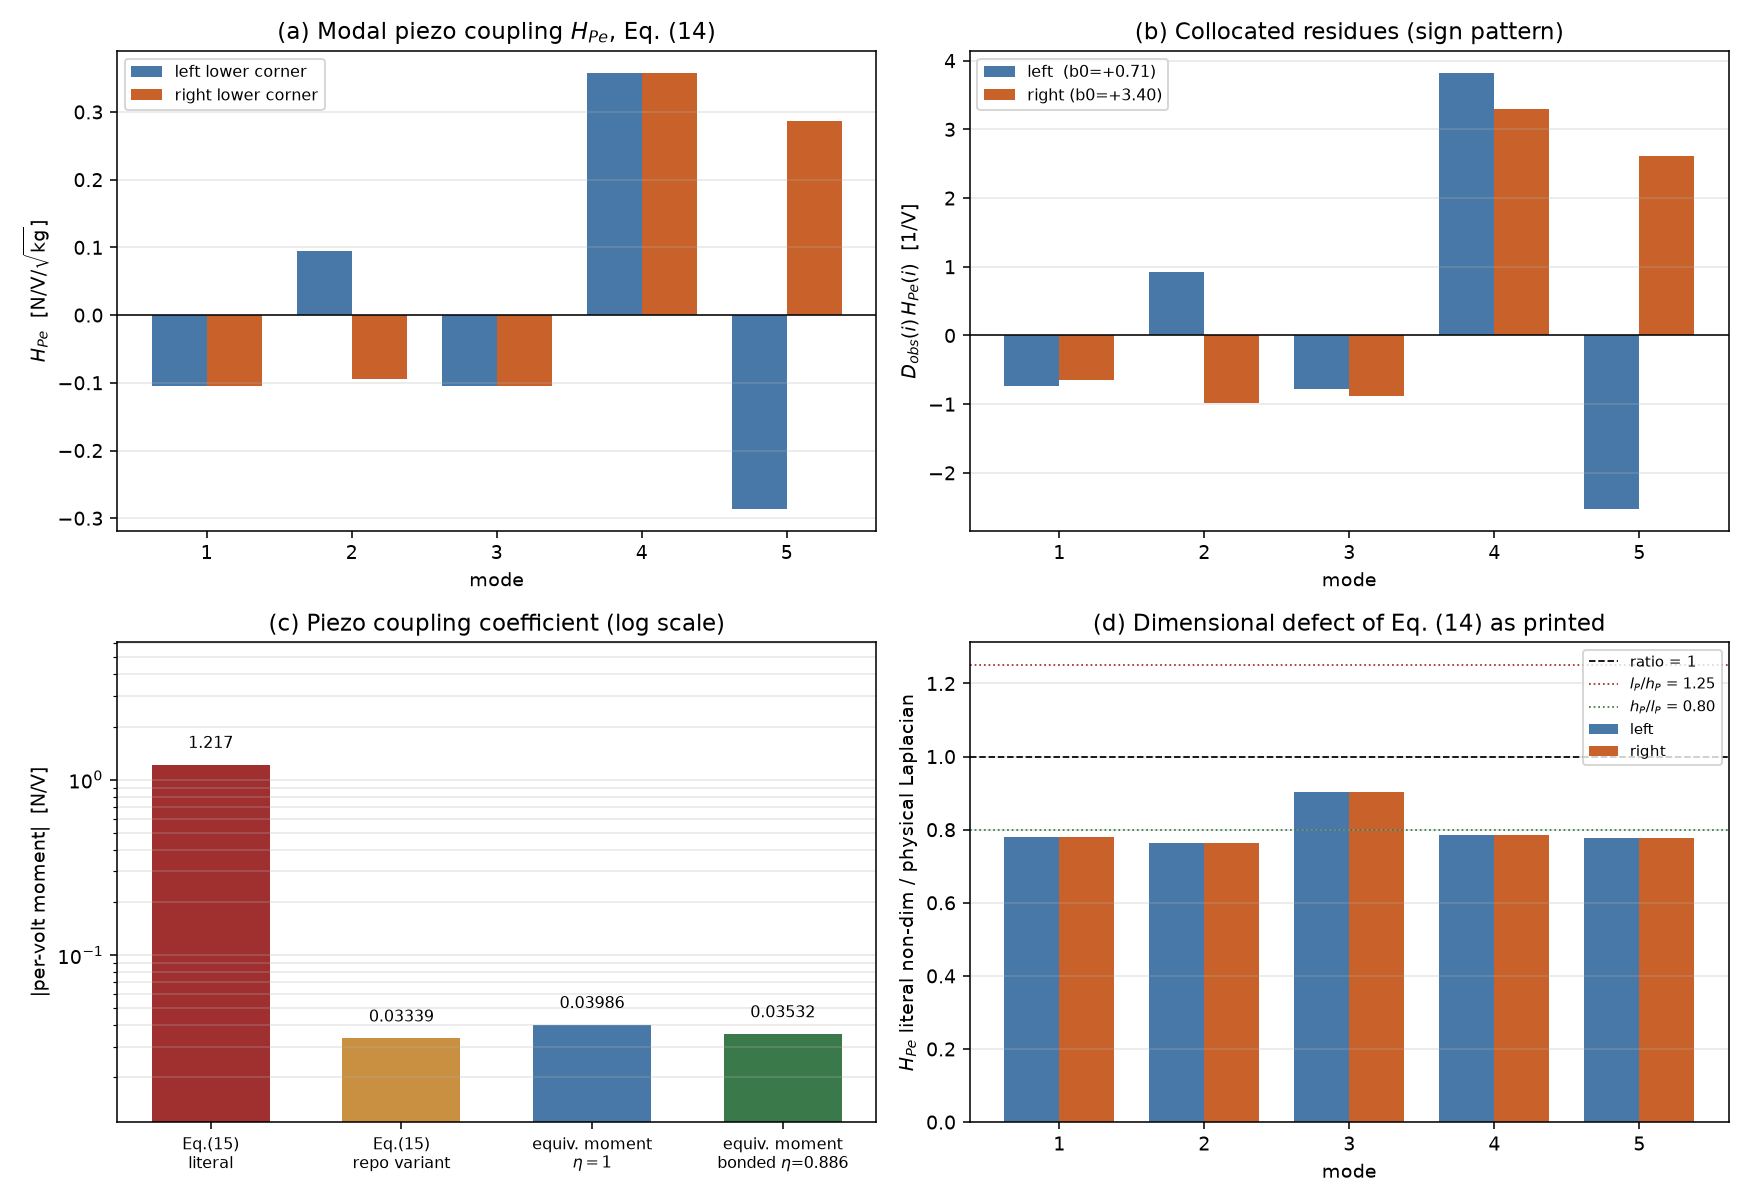
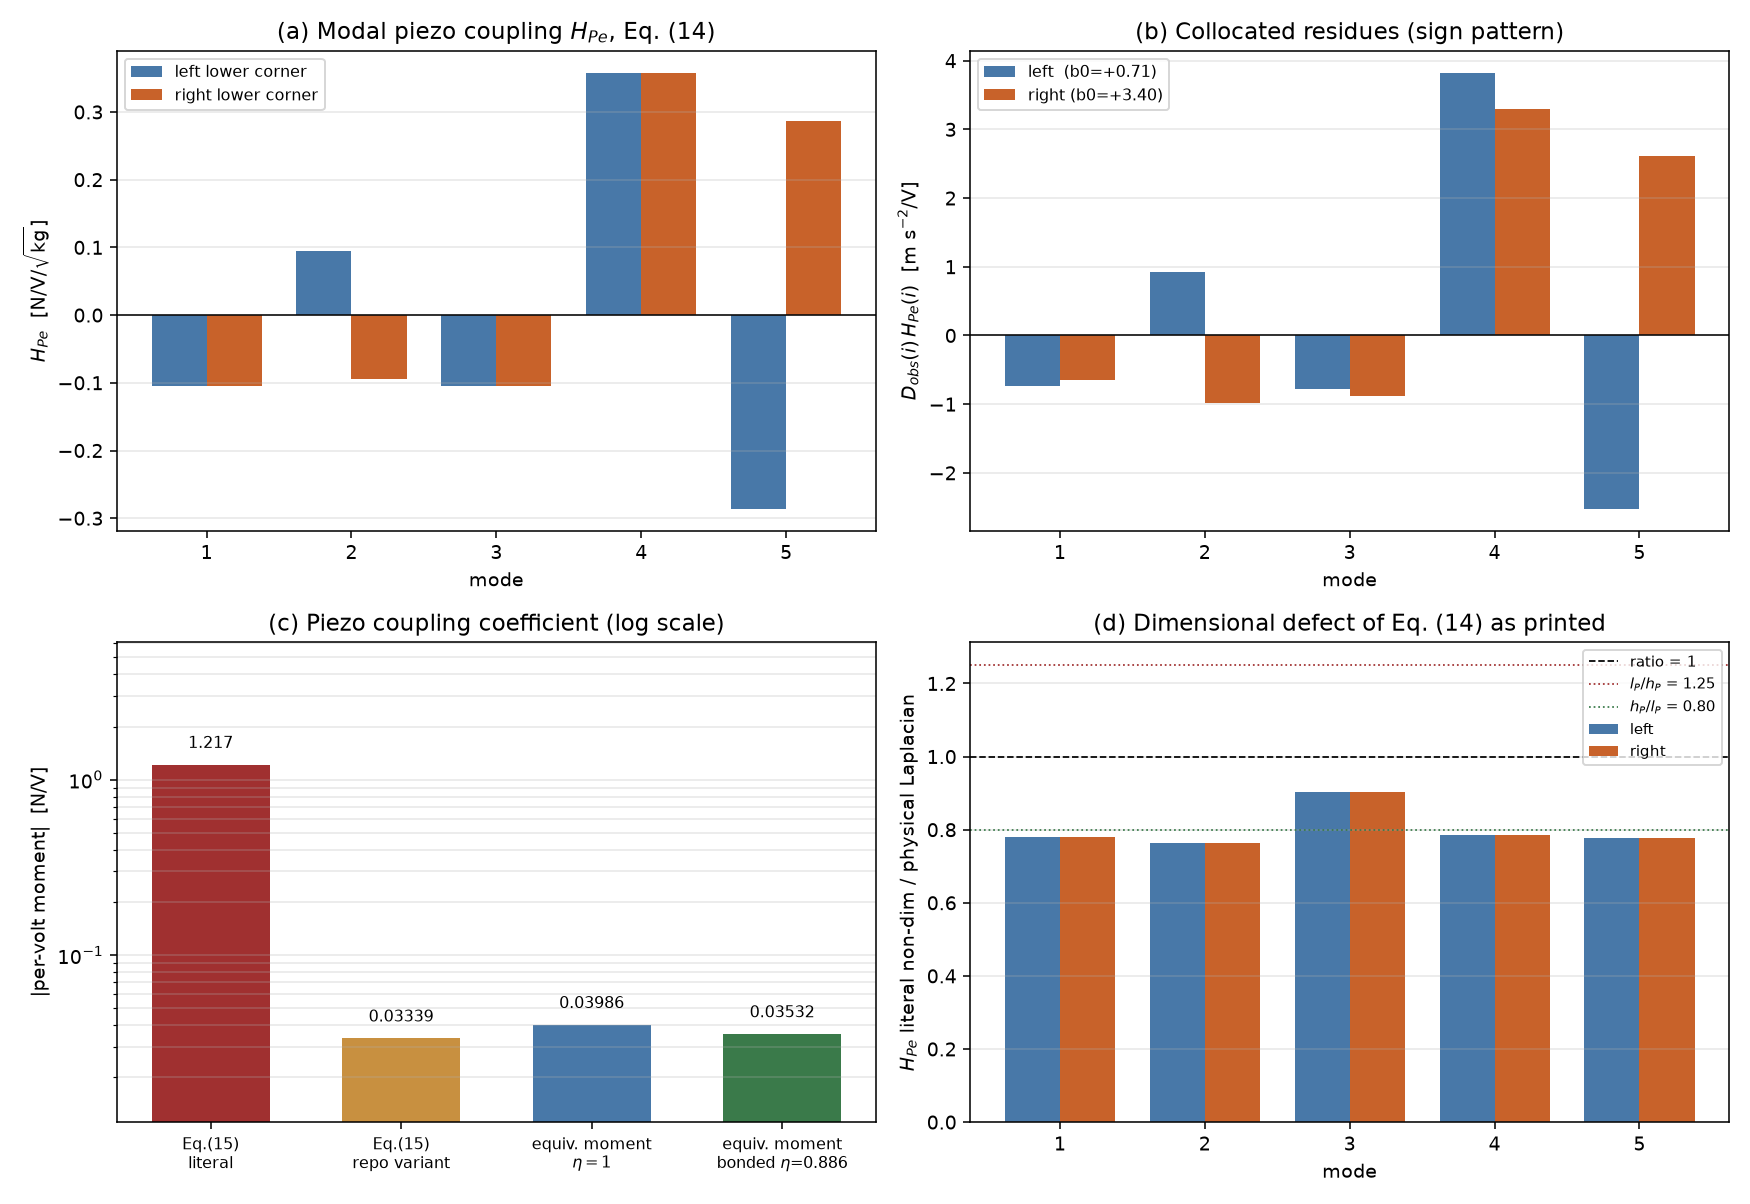
Fix five more protocol defects found by the adversarial audit
The audit of the control layer returned six defects; the constraint grid was
fixed in 0c1c298 and the other five land here. They do not all point the same
way, which is the reason none of them could be left standing.

The nominal-stability screen was structure-specific. Rejecting max Re > -1 s^-1
killed 58.3 % of the nominally stable ADRC-FOPID designs against 1.0-1.7 % of
the FOPID ones, because the ESO state z3 is a true integrator at s = 0 whose
closed-loop image sits between -0.2 and -0.5 s^-1, inside the rejected band,
while the FOPID's fractional integrator is band-limited at 2 pi rad/s by the
Oustaloup realisation and cannot go there. The penalty in that band was also
exactly -1000 everywhere, i.e. informationless. Only genuine instability
(max Re > 0) is rejected now, with a graded penalty. Biased toward FOPID.

Half the ADRC budget was dead. Its +1 sign half contains no nominally stable
design at all - 0 hits in 2500 samples and 0 in the 1800 evaluations it had been
spending - while both FOPID halves are productive. Equal evaluations were
therefore not equal useful evaluations. run_pso now screens one seed per sign
convention, then reallocates the remaining budget to the surviving half, the
same way for both structures: 2 screening runs plus 3 refinement runs each.
Biased toward FOPID.

The objective was not monotone in the quantity it claimed to maximise. Kendall
tau between J and the bisected a_p,lim was 0.809, with inversions across
[…]

diff --git a/control/objective.py b/control/objective.py
@@ -6,19 +6,15 @@ C'est ici que se joue l'equite de la comparaison : FOPID et ADRC-FOPID sont
 notes par le MEME code, avec les MEMES contraintes. Seule change la fonction
 qui fabrique le (A, B, C, D) a partir du vecteur de decision.
 
-OBJECTIF — maximiser les limites de stabilite du fraisage.
-Le critere exact serait la profondeur axiale limite a_p,lim obtenue par
-bissection sur le rayon spectral de Floquet ; c'est 12 a 15 evaluations par
-position, trop cher dans une boucle PSO. On maximise donc une mesure
-STRICTEMENT MONOTONE de la meme quantite : la marge logarithmique de Floquet
-
-    J = - moyenne_{a_p sondes} [ max_{x} log rho(a_p, x) ]
-
-rho <= 1 signifie stable ; J > 0 signifie donc "stable a toutes les
-profondeurs sondes et a toutes les positions", et J croit avec la marge. Les
-profondeurs sondes (0.5, 1.0, 2.0 mm) encadrent la zone utile, la limite en
-boucle ouverte etant ~0.15 mm. Les a_p,lim VRAIS sont ensuite calcules par
-bissection, a pleine resolution, pour les seuls correcteurs retenus.
+OBJECTIF — maximiser la profondeur axiale limite du fraisage.
+Le critere exact est a_p,lim obtenu par bissection sur le rayon spectral de
+Floquet, soit 12 a 15 evaluations par position : trop cher dans une boucle
+PSO. On l'ESTIME donc a partir de quelques profondeurs sondes, en interpolant
+le premier croisement de max_x log rho(a_p, x) par zero (voir
+_ap_from_margins). J est ainsi en millimetres, dans l'unite de la grandeur
+visee, et son classement coincide avec elle a la resolution des sondes pres.
+Les a_p,lim VRAIS sont ensuite bissectes a pleine resolution (m = 200, cinq
+positions) pour les seuls correcteurs retenus.
 
 CONTRAINTES (penalisees, identiques des deux cotes) :
   1. stabilite nominale sans coupe : max Re(lambda) <= -1 s^-1 ;
@@ -117,7 +113,8 @@ def floquet_margin(plate, ss, rpm, ap, x_pos, m=None, n_period=None):
     maps, _ = period_maps(plate, rpm, ap, x_pos, ctrl=ss, pd=None,
                           n_modes=C.N_MODES_OBJ, m=m, coeff_mode='time',
                           coeff_scale=C.SIGN_SIM, ae=C.AE)
-    rho = spectral_radius(maps, m, maps[0][0].shape[0], npd)
+    rho = spectral_radius(maps, m, maps[0][0].shape[0], npd,
+                          tol=C.N_PERIOD_TOL_PSO, n_min=C.N_PERIOD_MIN_PSO)
     if not np.isfinite(rho):        # divergence violente : borne haute graduee
         return 50.0
     return float(np.clip(np.log(max(rho, 1e-300)), -50.0, 50.0))
@@ -143,12 +140,22 @@ def _evaluate(plate, ss, rpm, probes, positions, m, detail):
     info = dict(feasible=False, reason='', Ms=np.nan, V=np.nan, J=-np.inf)
 
     # -- crible 1 : stabilite nominale
+    # Le seuil etait -1 s^-1. Il n'est PAS neutre vis-a-vis des structures :
+    # l'integrateur fractionnaire du FOPID est realise par Oustaloup, donc
+    # borne en bande a w_b = 2 pi rad/s, et son pole le plus lent est
+    # structurellement loin de zero ; l'etat z3 de l'observateur etendu est un
+    # VRAI integrateur en s = 0, dont l'image en boucle fermee se place
+    # typiquement entre -0.2 et -0.5 s^-1, c'est-a-dire dans la bande rejetee.
+    # Mesure par echantillonnage (2500 tirages par boitier) : le seuil -1 tuait
+    # 58.3 % des ADRC-FOPID nominalement STABLES contre 1.0-1.7 % des FOPID, et
+    # la penalite y etait plate (-1000 exactement), donc sans gradient. On ne
+    # rejette plus que l'instabilite reelle, avec une penalite graduee.
     ev = nominal_poles(plate, ss)
     mre = float(np.max(ev.real))
     info['max_re'] = mre
-    if not np.isfinite(mre) or mre > -1.0:
+    if not np.isfinite(mre) or mre > 0.0:
         info['reason'] = 'boucle nominale instable'
-        info['J'] = -1e3 - max(mre, 0.0)
+        info['J'] = -1e3 - (mre if np.isfinite(mre) else 1e3)
         return (info['J'], info) if detail else info['J']
 
     # -- crible 2/3 : marge de module et effort, sur une grille resolue par
@@ -165,15 +172,51 @@ def _evaluate(plate, ss, rpm, probes, positions, m, detail):
         info['J'] = -100.0 - pen
         return (info['J'], info) if detail else info['J']
 
-    # -- objectif : marge de Floquet moyennee sur les profondeurs sondes
-    margins = []
-    for ap in probes:
-        worst = max(floquet_margin(plate, ss, rpm, ap, fr * plate.lp, m=m)
-                    for fr in pos)
-        margins.append(worst)
-    J = -float(np.mean(margins))
+    # -- objectif : estimation de a_p,lim par interpolation du croisement
+    margins = [max(floquet_margin(plate, ss, rpm, ap, fr * plate.lp, m=m)
+                   for fr in pos) for ap in probes]
+    J = _ap_from_margins(np.asarray(probes, float),
+                         np.asarray(margins, float)) * 1e3      # en mm
     info.update(feasible=True, J=J, margins=margins)
     return (J, info) if detail else J
+
+
+def _ap_from_margins(probes, g):
+    """Estimation de a_p,lim [m] a partir de log rho aux profondeurs sondes.
+
+    L'ancien critere etait J = -moyenne(log rho). Il etait presente comme
+    "strictement monotone" en a_p,lim ; il ne l'est pas. Des qu'une sonde est
+    au-dessus de la limite, son terme mesure a quel point la boucle est
+    INSTABLE a une profondeur que personne n'atteint, et cette quantite n'a
+    aucune relation monotone avec le premier croisement de rho = 1. Mesure sur
+    dix correcteurs faisables : tau de Kendall entre J et le vrai a_p,lim
+    bissecte = 0.809 seulement, avec des inversions y compris ENTRE STRUCTURES
+    (un FOPID note J = -0.132 contre un ADRC a -0.223, alors que les limites
+    vraies etaient 0.219 mm contre 0.231 mm).
+
+    On estime donc directement la profondeur ou max_x log rho croise zero, par
+    interpolation lineaire du PREMIER croisement montant (et extrapolation
+    lineaire si toutes les sondes sont du meme cote). Le critere est alors dans
+    la meme unite que la grandeur visee, et son classement coincide avec elle
+    par construction a la resolution des sondes pres.
+    """
+    ap = np.asarray(probes, float)
+    g = np.asarray(g, float)
+    if g[0] > 0.0:                       # deja instable a la plus petite sonde
+        if g[1] > g[0]:                  # extrapolation vers le bas
+            sl = (g[1] - g[0]) / (ap[1] - ap[0])
+            return max(ap[0] - g[0] / sl, 0.0)
+        return 0.0
+    for k in range(len(ap) - 1):         # premier croisement montant
+        if g[k] <= 0.0 < g[k + 1]:
+            t = -g[k] / (g[k + 1] - g[k])
+            return float(ap[k] + t * (ap[k + 1] - ap[k]))
+    if g[-1] <= 0.0:                     # stable partout : extrapolation haute
+        if g[-1] > g[-2]:
+            sl = (g[-1] - g[-2]) / (ap[-1] - ap[-2])
+            return float(ap[-1] - g[-1] / sl)
+        return float(ap[-1] * 2.0)
+    return float(ap[0])
 
 
 # ---------------------------------------------------------------------------

diff --git a/control/run_pso.py b/control/run_pso.py
@@ -51,8 +51,10 @@ def main():
     print(f"  objectif : marge de Floquet aux profondeurs"
           f" {[f'{a * 1e3:.1f}' for a in C.AP_PROBE]} mm,"
           f" positions {C.POSITIONS_DESIGN}")
-    print(f"  PSO : {C.PSO['n_particles']} particules x {C.PSO['n_iter']}"
-          f" iterations, graines {C.PSO['seeds']}\n")
+    print(f"  PSO : {C.PSO['n_particles_base']}"
+          f" + {C.PSO['n_particles_per_dim']} x dim particules"
+          f" x {C.PSO['n_iter']} iterations, graines {C.PSO['seeds']}"
+          f" (1 depistage par convention de signe, puis raffinement)\n")
 
     store = {}
     for kind in ('fopid', 'adrc'):
@@ -61,24 +63,47 @@ def main():
         print(f"  --- {kind.upper()} : {D0.n} parametres,"
               f" {n_states} etats ---", flush=True)
         best_x, best_J, best_var, runs = None, -np.inf, None, []
-        # les deux conventions de signe de boucle sont explorees pour LES DEUX
-        # structures (le procede change de signe entre basse et haute
-        # frequence : aucune n'est correcte a priori)
+        # ETAPE 1 — depistage : une graine par convention de signe.
+        # "Meme budget" n'est pas "meme budget UTILE" : la moitie +1 du boitier
+        # ADRC-FOPID ne contient AUCUN correcteur nominalement stable (0 sur
+        # 2500 tirages, et 0 sur les 1800 evaluations qu'elle avait consommees
+        # dans la version precedente), pendant que les deux moities du boitier
+        # FOPID sont productives. On depiste donc, puis on REPORTE le budget de
+        # la moitie vide sur la moitie qui vit — identiquement pour les deux
+        # structures : 2 depistages + 3 raffinements chacune.
+        screen = {}
         for variant in (+1.0, -1.0):
             D = Design(kind, plate, sign_loop, sign_variant=variant)
-            for seed in C.PSO['seeds']:
-                t0 = time.time()
-                fit = lambda u: evaluate(plate, D.build(u))
-                x, J, inf = pso(fit, D.n, seed=seed)
-                runs.append(dict(seed=seed, variant=variant, x=x, J=J,
-                                 history=inf['history'],
-                                 n_eval=inf['n_eval']))
-                print(f"    signe {variant:+.0f}, graine {seed} :"
-                      f" J = {J:+.4f}"
-                      f"  ({inf['n_eval']} evaluations,"
-                      f" {time.time() - t0:.0f} s)", flush=True)
-                if J > best_J:
-                    best_J, best_x, best_var = J, x.copy(), variant
+            t0 = time.time()
+            fit = lambda u: evaluate(plate, D.build(u))
+            x, J, inf = pso(fit, D.n, seed=C.PSO['seeds'][0])
+            screen[variant] = J
+            runs.append(dict(seed=C.PSO['seeds'][0], variant=variant, x=x, J=J,
+                             history=inf['history'], n_eval=inf['n_eval']))
+            print(f"    depistage signe {variant:+.0f} : J = {J:+.4f} mm"
+                  f"  ({inf['n_eval']} evaluations,"
+                  f" {time.time() - t0:.0f} s)", flush=True)
+            if J > best_J:
+                best_J, best_x, best_var = J, x.copy(), variant
+        alive = [v for v, J in screen.items() if J > -900.0]
+        if not alive:
+            alive = list(screen)
+        best_var = max(alive, key=lambda v: screen[v])
+        print(f"    conventions productives : {sorted(alive)}"
+              f" -> raffinement sur {best_var:+.0f}", flush=True)
+        # ETAPE 2 — raffinement : les graines restantes sur la convention retenue
+        D = Design(kind, plate, sign_loop, sign_variant=best_var)
+        for seed in C.PSO['seeds'][1:]:
+            t0 = time.time()
+            fit = lambda u: evaluate(plate, D.build(u))
+            x, J, inf = pso(fit, D.n, seed=seed)
+            runs.append(dict(seed=seed, variant=best_var, x=x, J=J,
+                             history=inf['history'], n_eval=inf['n_eval']))
+            print(f"    raffinement graine {seed} : J = {J:+.4f} mm"
+                  f"  ({inf['n_eval']} evaluations,"
+                  f" {time.time() - t0:.0f} s)", flush=True)
+            if J > best_J:
+                best_J, best_x, best_var = J, x.copy(), best_var
         D = Design(kind, plate, sign_loop, sign_variant=best_var)
         print(f"    convention retenue : sign_variant = {best_var:+.0f}")
         par = D.decode(best_x)
@@ -101,8 +126,10 @@ def main():
             J_seeds=np.array([r['J'] for r in runs]),
             n_eval=int(sum(r['n_eval'] for r in runs)))
 
-    print(f"\n  budget identique : "
-          f"{store['fopid']['n_eval']} evaluations chacun")
+    print(f"\n  budget : {store['fopid']['n_eval']} evaluations (FOPID),"
+          f" {store['adrc']['n_eval']} (ADRC-FOPID) — l'essaim est"
+          f" proportionnel a la dimension, donc le nombre d'evaluations"
+          f" differe et est rapporte tel quel")
     np.savez_compressed(os.path.join(OUT, f'pso_{C.PROTOCOL}.npz'),
                         **{f'{k}__{kk}': vv for k, v in store.items()
                            for kk, vv in v.items()})

diff --git a/control/config.py b/control/config.py
@@ -84,7 +84,7 @@ assert PROTOCOL in ('A', 'B')
 N_MODES = 5                   # modele d'evaluation = verite (lobes, temporel)
 N_MODES_OBJ = 2 if PROTOCOL == 'A' else 5     # modele vu par l'optimiseur
 N_MODES_DESIGN = N_MODES_OBJ  # ce que le correcteur "connait" (b0 nominal)
-M_FLOQUET_PSO = 40            # sous-intervalles pendant l'optimisation
+M_FLOQUET_PSO = 32            # sous-intervalles pendant l'optimisation
 M_FLOQUET = 200               # sous-intervalles pour tous les resultats
 # Nombre de periodes de l'iteration de puissance : None = critere d'arret
 # ADAPTATIF (voir closed_loop.spectral_radius). Un nombre fixe et petit
@@ -92,6 +92,12 @@ M_FLOQUET = 200               # sous-intervalles pour tous les resultats
 # ouverte a 4900 tr/min etait declaree stable jusqu'a 0.080 mm au lieu de
 # 0.045 mm. Ne remettre une valeur entiere que pour un diagnostic.
 N_PERIOD = None
+# Tolerance de l'iteration de puissance PENDANT l'optimisation. Le classement
+# n'a pas besoin de la precision des resultats finals : n_min = 30 et
+# tol = 3e-3 coutent 25 % de moins et laissent rho a mieux que 0.3 %. Les
+# resultats publies (limites, lobes, robustesse) utilisent le reglage strict.
+N_PERIOD_MIN_PSO = 30
+N_PERIOD_TOL_PSO = 3e-3
 # Pas d'integration temporelle. Les correcteurs contiennent des poles
 # d'Oustaloup jusqu'a w_h = 2*pi*100 kHz : a n_sub = 164 (fs = 40 kHz) ces
 # dynamiques se replient et la simulation diverge avec des tensions de 700 kV
@@ -101,7 +107,12 @@ N_PERIOD = None
 # depasser quelques fois w_h/2pi. Une implantation materielle a 40 kHz
 # demanderait de retrecir la bande d'Oustaloup.
 N_SUB = 656
-POSITIONS_DESIGN = (0.0, 0.5, 1.0)          # fractions de l_P (synthese)
+# Positions vues par l'objectif. Trois points (0, 1/2, 1) laissaient un angle
+# mort : l'ADRC-FOPID retenu avant correction avait une explosion locale a
+# x/l_P = 0.125 que la grille de synthese ne voyait pas (log rho = +2.11 la
+# contre +0.57 sur la grille), alors que le FOPID n'en avait pas. La grille de
+# synthese abritait donc une structure et pas l'autre.
+POSITIONS_DESIGN = (0.0, 0.125, 0.25, 0.5, 0.75, 1.0)
 POSITIONS = (0.0, 0.25, 0.5, 0.75, 1.0)     # fractions de l_P (validation)
 
 # ------------------------------------- realisation d'ordre fractionnaire
@@ -141,10 +152,18 @@ V_MAX = 150.0
 # 0.30 mm, et ses experiences montent a 0.6-0.8 mm sous commande (Fig. 18).
 # Le jeu (0.5, 1, 2) mm herite de la version pre-correction du modele, ou la
 # limite sans commande etait cinq fois plus haute.
-AP_PROBE = (0.15e-3, 0.30e-3, 0.60e-3)
+AP_PROBE = (0.12e-3, 0.30e-3, 0.70e-3)
 
-PSO = dict(n_particles=24, n_iter=24, w=0.72, c1=1.5, c2=1.5, v_max=0.25,
-           seeds=(1, 2, 3))
+# Taille d'essaim PROPORTIONNELLE A LA DIMENSION. A budget d'evaluations egal,
+# un PSO de 24 particules n'a pas la meme qualite de recherche en 5 et en 7
+# dimensions : mesure sur trois paysages de reference avec ce meme code, l'ecart
+# a l'optimum est environ 2x plus grand en 7-D (sphere x1.91, rosenbrock x2.06,
+# rastrigin x2.36, 12 graines chacun). "Meme nombre d'evaluations" n'est donc
+# PAS une garantie d'equite ; c'est la qualite de recherche qu'il faut egaliser.
+# n_particles = 10 + 4 n_dim donne 30 particules pour le FOPID et 38 pour
+# l'ADRC-FOPID ; le nombre d'evaluations differe alors et est rapporte tel quel.
+PSO = dict(n_particles=None, n_iter=20, w=0.72, c1=1.5, c2=1.5, v_max=0.25,
+           seeds=(1, 2, 3, 4), n_particles_base=10, n_particles_per_dim=4)
 
 # bornes de recherche (log10 pour les gains)
 # Les bornes couvrent, pour CHAQUE structure, la plage physiquement utile de

diff --git a/control/pso.py b/control/pso.py
@@ -93,7 +93,11 @@ def pso(fitness, n_dim, seed=0, n_particles=None, n_iter=None, w=None,
         c1=None, c2=None, v_max=None, verbose=False, callback=None):
     """Maximise `fitness` sur [0, 1]^n_dim. Retourne (x*, f*, historique)."""
     cfg = dict(C.PSO)
-    n_particles = cfg['n_particles'] if n_particles is None else n_particles
+    if n_particles is None:
+        n_particles = cfg['n_particles']
+    if n_particles is None:                     # taille liee a la dimension
+        n_particles = int(cfg['n_particles_base']
+                          + cfg['n_particles_per_dim'] * n_dim)
     n_iter = cfg['n_iter'] if n_iter is None else n_iter
     w = cfg['w'] if w is None else w
     c1 = cfg['c1'] if c1 is None else c1

diff --git a/verification/17_alpha4_band_stability.py b/verification/17_alpha4_band_stability.py
@@ -494,7 +494,7 @@ def main():
                  bbox=dict(fc='w', ec='0.6', alpha=0.9))
         if ip == 0:
             ax2.set_ylabel('effective multiple of $\\bar a_4$')
-            ax2.legend(fontsize=7.6, loc='upper right', framealpha=0.92)
+            ax2.legend(fontsize=7.6, loc='lower right', framealpha=0.92)
     fig.suptitle("Fig. 6 of Du et al. (2024) re-computed — stability lobes"
                  " with theoretical, mean, 0.3x and 2.9x milling force"
                  f" coefficient (2-mode model, down milling,"

diff --git a/verification/15_piezo_coupling_eq14_15.py b/verification/15_piezo_coupling_eq14_15.py
@@ -408,7 +408,7 @@ a.bar(modes + w / 2, pr, w, label='right (b0=%+.2f)' % pr.sum(),
 a.axhline(0, color='k', lw=0.8)
 a.set_xticks(modes)
 a.set_xlabel('mode')
-a.set_ylabel(r'$D_{obs}(i)\,H_{Pe}(i)$  [1/V]')
+a.set_ylabel(r'$D_{obs}(i)\,H_{Pe}(i)$  [m s$^{-2}$/V]')
 a.set_title('(b) Collocated residues (sign pattern)')
 a.legend(fontsize=8)
 a.grid(alpha=0.3, axis='y')
